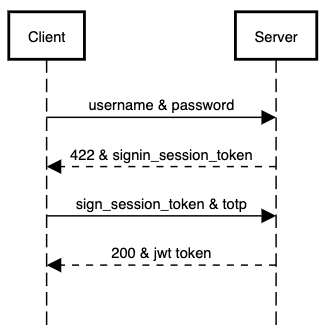
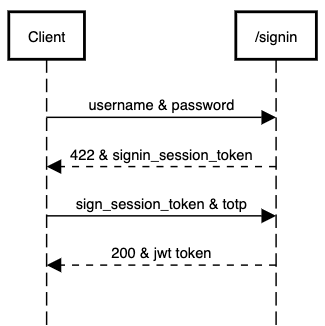
updating documentation

Changed region(s): [[0.7692, 0.092, 0.9231, 0.1534], [0.9538, 0.0307, 0.9846, 0.184], [0.7077, 0.0307, 0.7385, 0.184]]

diff --git a/accounts/config/environment.js b/accounts/config/environment.js
@@ -24,8 +24,8 @@ module.exports = function(environment) {
   };
 
   ENV['ember-simple-auth-token'] = {
-    serverTokenEndpoint: '/jwt_auth/signin',
-    serverTokenRefreshEndpoint: '/jwt_auth/refresh',
+    serverTokenEndpoint: '/signin',
+    serverTokenRefreshEndpoint: '//refresh',
     tokenPropertyName: 'token', // Key in server response that contains the access token
     headers: {}, // Headers to add to the
     // tokenExpirationInvalidateSession: true, // Enables session invalidation on token expiration
@@ -51,8 +51,8 @@ module.exports = function(environment) {
     // ENV.APP.LOG_TRANSITIONS_INTERNAL = true;
     // ENV.APP.LOG_VIEW_LOOKUPS = true;
 
-    ENV['ember-simple-auth-token'].serverTokenEndpoint = 'http://localhost:8080/jwt_auth/signin'
-    ENV['ember-simple-auth-token'].serverTokenRefreshEndpoint = 'http://localhost:8080/jwt_auth/refresh'
+    ENV['ember-simple-auth-token'].serverTokenEndpoint = 'http://localhost:8080/signin'
+    ENV['ember-simple-auth-token'].serverTokenRefreshEndpoint = 'http://localhost:8080//refresh'
     ENV.APP.JSONAPIAdaptetHost = 'http://localhost:8080';
   }
 

diff --git a/api/internal/handlers/user.go b/api/internal/handlers/user.go
@@ -221,7 +221,7 @@ func getAuthType(c Credentials) AuthType {
 	return UnknownAuth
 }
 
-// swagger:operation POST /jwt_auth/signin signin
+// swagger:operation POST /signin signin
 //
 // ---
 // summary: Signin User
@@ -253,7 +253,10 @@ func getAuthType(c Credentials) AuthType {
 //   **Password + WebAuthn**
 //
 //   This is two factor authentication. User's security settings must have WebAuthn enabled in order for this second
-//   factor authentication to be presented to the user after a successful password authentication.
+//   factor authentication to be presented to the user after a successful password authentication. Testing the WebAuthn
+//   is a lot more involved. The webauthn endpoint is tested using the browser with webauthn client javascript calls
+//   that are embedded in UI. Professional API testing tool can be used if it calls browser API natively. This part of
+//   API endpoint is mentioned for the sake of completeness.
 //
 //   <img src="/accounts/assets/webauthn_flow.png" alt="WebAuthn Flow">
 //
@@ -278,16 +281,43 @@ func getAuthType(c Credentials) AuthType {
 //     description: access denied
 //     schema:
 //       type: object
-//       "$ref": "#/definitions/AuthError"
+//       properties:
+//         code:
+//           type: integer
+//           description: error code
+//           example: 4300
+//         message:
+//           type: string
+//           description: error message
+//           example: Check login name or password
 //   '422':
 //     description: missing data
 //     schema:
 //       type: object
-//       "$ref": "#/definitions/MissingDataError"
+//       properties:
+//         code:
+//           type: integer
+//           description: error code
+//           example: 4800
+//         message:
+//           type: string
+//           description: error message
+//           example: TOTP required
+//         signin_session_token:
+//           type: string
+//           description: signin session token
+//           example: MzM4OGNkMWEtNmQyNC00MDQ1LWJmYzctMWJlMzM3ZTk1NDQ5
 // security: []
 // x-codeSamples:
-//   - lang: javascript
-//     source: console.log('Hello World');
+//   - lang: curl
+//     source: |
+//       curl -X POST \
+//       https://accounts.7onetella.net/signin \
+//       -H 'Content-Type: application/json' \
+//       -d '{
+//	       "username": "user_1604820478030@example.com",
+//	       "password": "password"
+//       }'
 func Signin(userService UserService, claimKey string, ttl time.Duration) gin.HandlerFunc {
 	return func(c *gin.Context) {
 

diff --git a/api/main.go b/api/main.go
@@ -147,11 +147,8 @@ func main() {
 		totp.POST("/confirm", ConfirmToken(userService))
 	}
 
-	auth := r.Group("/jwt_auth")
-	{
-		auth.POST("/signin", Signin(userService, jwt.ClaimKey, jwt.TTL))
-		auth.POST("/refresh", jwt.RefreshToken(userService))
-	}
+	r.POST("/signin", Signin(userService, jwt.ClaimKey, jwt.TTL))
+	r.POST("/refresh", jwt.RefreshToken(userService))
 
 	webauthn := r.Group("/webauthn")
 	webauthn.Use(jwt.TokenValidator(userService))

diff --git a/api/internal/model/error.go b/api/internal/model/error.go
@@ -21,13 +21,10 @@ type JSONAPIError struct {
 // swagger:model AuthError
 type Error struct {
 	// error code for machine
-	// example: 1100
 	ErrorCode int `json:"code"`
 	// error code for human
-	// example: database_query_failed
 	ErrorCodeHuman string `json:"reason"`
 	// message to display for end user
-	// example: Database query failed. Check with your administrator
 	Message string `json:"message"`
 	Err     error  `json:"-"`
 }
